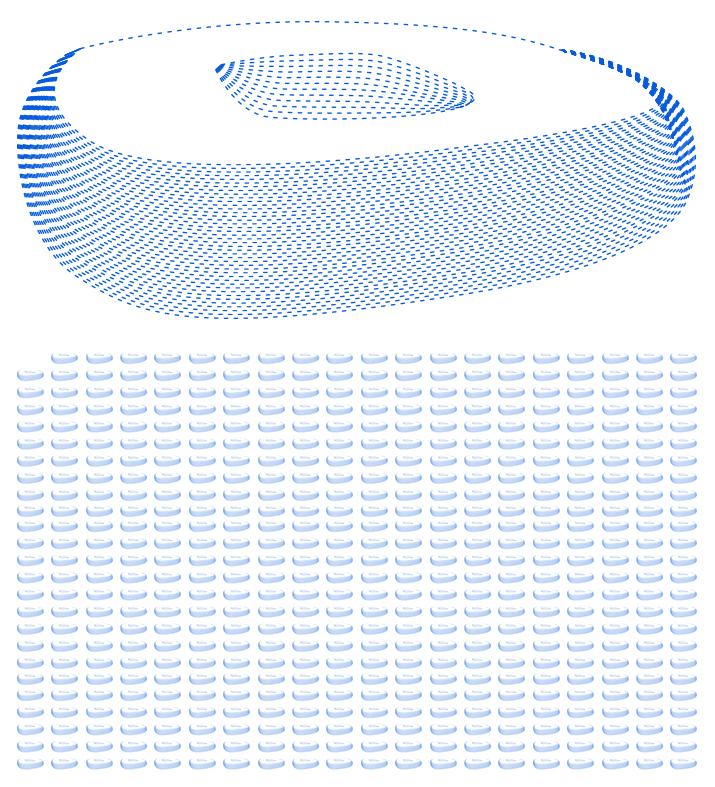
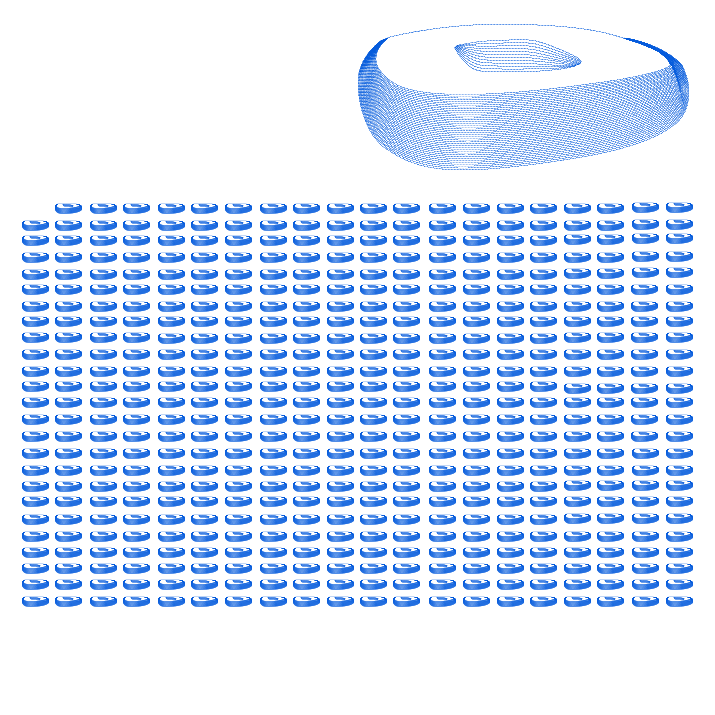
Celine Changes 13.01 17:51

diff --git a/style.css b/style.css
@@ -786,7 +786,7 @@ div.tooltip {
     position: absolute;
     left: -20px;
     margin-left: 0px;
-    margin-top: 250px;
+    margin-top: 100px;
 }
 
 .abbildung {
@@ -813,7 +813,7 @@ div.tooltip {
     margin-left: 50px;
 }
 .abb-wr4 {
-    margin-top: 0px;
+    margin-top: -50px;
     left: -15px;
 }
 
@@ -830,7 +830,7 @@ div.tooltip {
     width: 187px;
     height: 132px;
     font-family: 'Lato', sans-serif;
-    color:#0AA7FF;
+    color:#055BDC;
     font-size: 50px;
     line-height: 56px;
     font-weight: bold;
@@ -861,7 +861,7 @@ div.tooltip {
 
 .hrSection1 {
     position: absolute;
-    border-color:#0AA7FF;
+    border-color:#055BDC;
     margin-top: 12em;
     margin-bottom: 0.5em;
     margin-right: auto;
@@ -1164,14 +1164,14 @@ div.tooltip {
 }
 /*Angaben Section 6*/
 .info6-ewf {
-    width: 243px;
+    width: 543px;
     height: 63px;
     top: -400px;
 
 }
 
 #fontPicture-6 {
-    width: 243px;
+    width: 343px;
     height: 63px;
     font-family: 'Lato', sans-serif;
     color:#055BDC;

diff --git a/index.html b/index.html
@@ -287,11 +287,11 @@
         <div class="row position-relative info4-vW">
             <div class="col-4">
                 <p id="fontPicture-4-ID4000">
-                    Ø 4000L<br>
+                    Ø 4000 Liter<br>
                     Indirekter Wasserverbrauch pro Kopf am Tag
                 </p>
                 <p id="fontPicture-4-DW142">
-                    Ø 142L<br>
+                    Ø 142 Liter<br>
                     Direkter Wasserverbrauch pro Kopf am Tag
                 </p>
             </div>
@@ -371,7 +371,7 @@
             <div class="col-4">
                 <p id="fontPicture-6">
                     1 km&sup3; entspricht<br>
-                    500x die Allianz Arena
+                    500 mal die Allianz Arena
                 </p>
             </div>
         </div>
